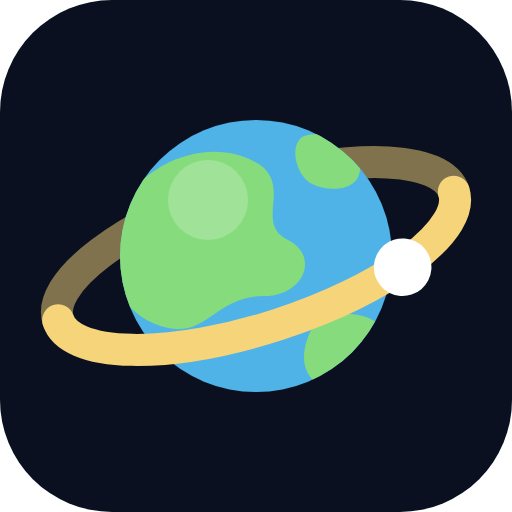
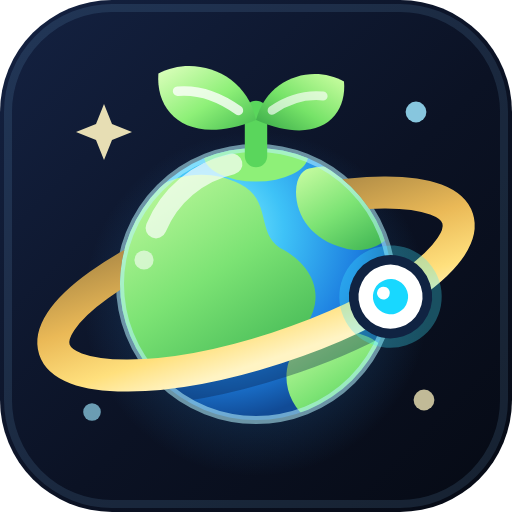
feat(game): 정원 새싹·행성·궤도 정거장 파비콘과 PWA 아이콘 새로 제작

diff --git a/docs/worklog/2026/10/28-2327-favicon-redesign.md b/docs/worklog/2026/10/28-2327-favicon-redesign.md
@@ -1,0 +1,38 @@
+# 파비콘과 앱 아이콘 새로 그리기 (정원 새싹·행성·궤도 정거장)
+
+- 일시: 2026-10-28 23:27 (KST)
+- 작업 도구: Antigravity
+- 관련: ADR `2026-10-28-pwa-and-browser-baseline.md`, `2026-10-28-design-system.md`(후보 A 새싹 장난감), 기획 GDD v4 D-052·D-063·D-070·D-073, 이전 기록 `28-2043-favicon.md`, `28-2040-pwa.md`
+
+## 한 일
+- 사용자 요청으로 파비콘과 설치형 웹앱(PWA) 아이콘을 새로 그렸다.
+  - 그림 구성: 밤하늘 바탕과 대기 광채 위에 입체감 있는 푸른 행성(바다·초록 대륙·구면 반사광), 북극에서 피어나는 두 잎 새싹(D-073 '정원'과 디자인 시스템 후보 A '새싹 장난감'), 황금빛 궤도 고리, 하얗고 매끈한 본체에 청록빛 코어가 빛나는 궤도 정거장(D-052, D-070 ③).
+  - 이전 임시 아이콘의 결함 수정: 반원 두 개를 `stroke-linecap="round"`로 이어 붙여 고리 좌우 끝단에 반투명 겹침 자국이 생기던 문제를 고쳤다. 고리를 닫힌 타원 하나로 그리고 행성 상단 반구만 `evenodd` 클리핑(`#ringVisibleClip`)으로 빼서 좌우 끝단 이음매가 전혀 없다.
+- `apps/game/public/favicon.svg`에서 모든 아이콘 파일을 다시 뽑았다(Verified: 헤드리스 Chrome 캔버스 렌더링, `node scripts/check-pwa.mjs` 통과).
+  - `favicon.ico`: 16·32·48px PNG 3종 묶음.
+  - `pwa-192x192.png`, `pwa-512x512.png`: 둥근 사각형 아이콘(바깥 투명).
+  - `apple-touch-icon-180x180.png`: 전체 사각형 우주 배경에 가득 채운 180×180 PNG.
+  - `maskable-icon-512x512.png`: 전체 사각형 우주 배경 가운데 80% 안전 영역에 맞춘 512×512 PNG.
+- 어두운 탭(`#1e222b`)과 밝은 파스텔 탭(`#dff2fb`) 배경에서 16·32·48·96px 크기로 렌더링해 새싹·행성·고리·정거장 윤곽이 또렷이 보이는지 확인했다(Verified).
+
+## 바꾼 파일과 이유
+| 파일 | 이유 |
+|---|---|
+| `apps/game/public/favicon.svg` | 새 파비콘 벡터 원본 |
+| `apps/game/public/favicon.ico` | 16·32·48px 묶음 파비콘 재생성 |
+| `apps/game/public/pwa-192x192.png` | 새 원본에서 192×192 앱 아이콘 재생성 |
+| `apps/game/public/pwa-512x512.png` | 새 원본에서 512×512 앱 아이콘 재생성 |
+| `apps/game/public/apple-touch-icon-180x180.png` | 새 원본에서 iOS 홈 화면용 180×180 아이콘 재생성 |
+| `apps/game/public/maskable-icon-512x512.png` | 새 원본에서 안드로이드 안전 영역(80%)용 512×512 아이콘 재생성 |
+
+## 함께 바꿔야 하는 파일
+- 아이콘 그림을 다시 고칠 때는 `apps/game/public/favicon.svg`를 수정한 뒤 `favicon.ico`(16·32·48px)와 PNG 4종(`pwa-192x192.png`, `pwa-512x512.png`, `apple-touch-icon-180x180.png`, `maskable-icon-512x512.png`)을 함께 다시 만든다.
+
+## 건드리지 말 것
+- `apps/game/index.html`과 `apps/game/vite.config.ts`의 아이콘 경로 및 크기 선언(`scripts/check-pwa.mjs`가 검사한다).
+
+## 미검증·TODO·알려진 문제
+- 실제 아이폰·안드로이드 기기 홈 화면에 추가했을 때의 마스크 모양은 기기에서 직접 확인하지 않았다(Unknown).
+
+## 사용자 결정 대기
+- 없음.

diff --git a/docs/WORKLOG.md b/docs/WORKLOG.md
@@ -5,6 +5,7 @@
 
 | 일시 (KST) | 작업 | 작업 도구 | 기록 |
 |---|---|---|---|
+| 2026-10-28 23:27 | 파비콘과 앱 아이콘 새로 그리기 (정원 새싹·행성·궤도 정거장) | Antigravity | [28-2327-favicon-redesign](worklog/2026/10/28-2327-favicon-redesign.md) |
 | 2026-10-28 22:15 | 기획서 미러 첫 동기화 (GDD v4, D-001~D-138) | Claude Code | [28-2215-design-mirror-sync](worklog/2026/10/28-2215-design-mirror-sync.md) |
 | 2026-10-28 21:50 | 로그인·관리자 화면: 들어가기·새 아이디 확인·비밀번호 찾기·계정 줄·역할 바꾸기, 디자인 값 한곳에 | Claude Code (서브에이전트, 작업 트리) | [28-2150-auth-ui](worklog/2026/10/28-2150-auth-ui.md) |
 | 2026-10-28 21:00 | 인증 서버: Better Auth 연결, 들어가기·비밀번호 찾기, 관리자 역할, 감사 기록, 관리 명령 | Claude Code (클라우드 세션, 서브에이전트 worktree) | [28-2100-auth-server](worklog/2026/10/28-2100-auth-server.md) |
